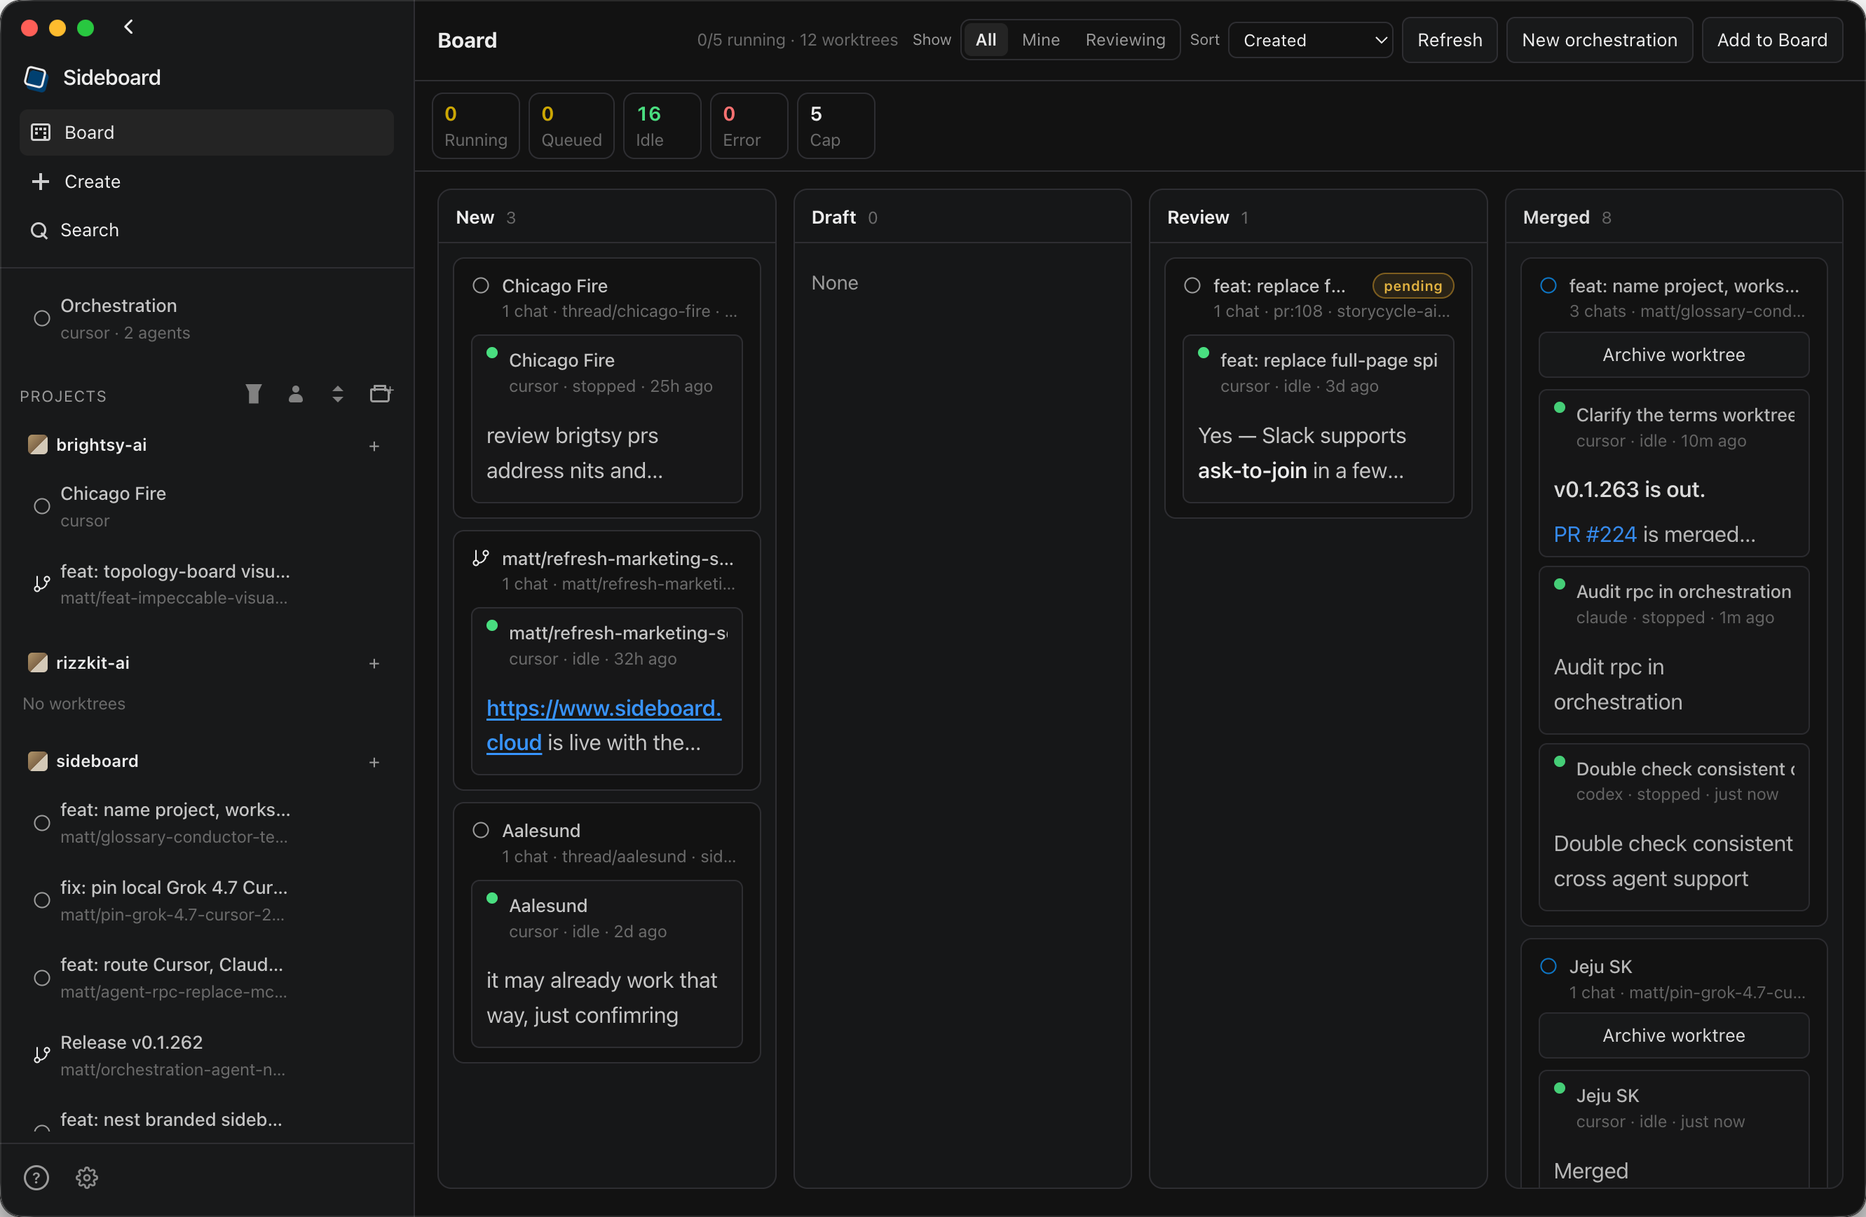
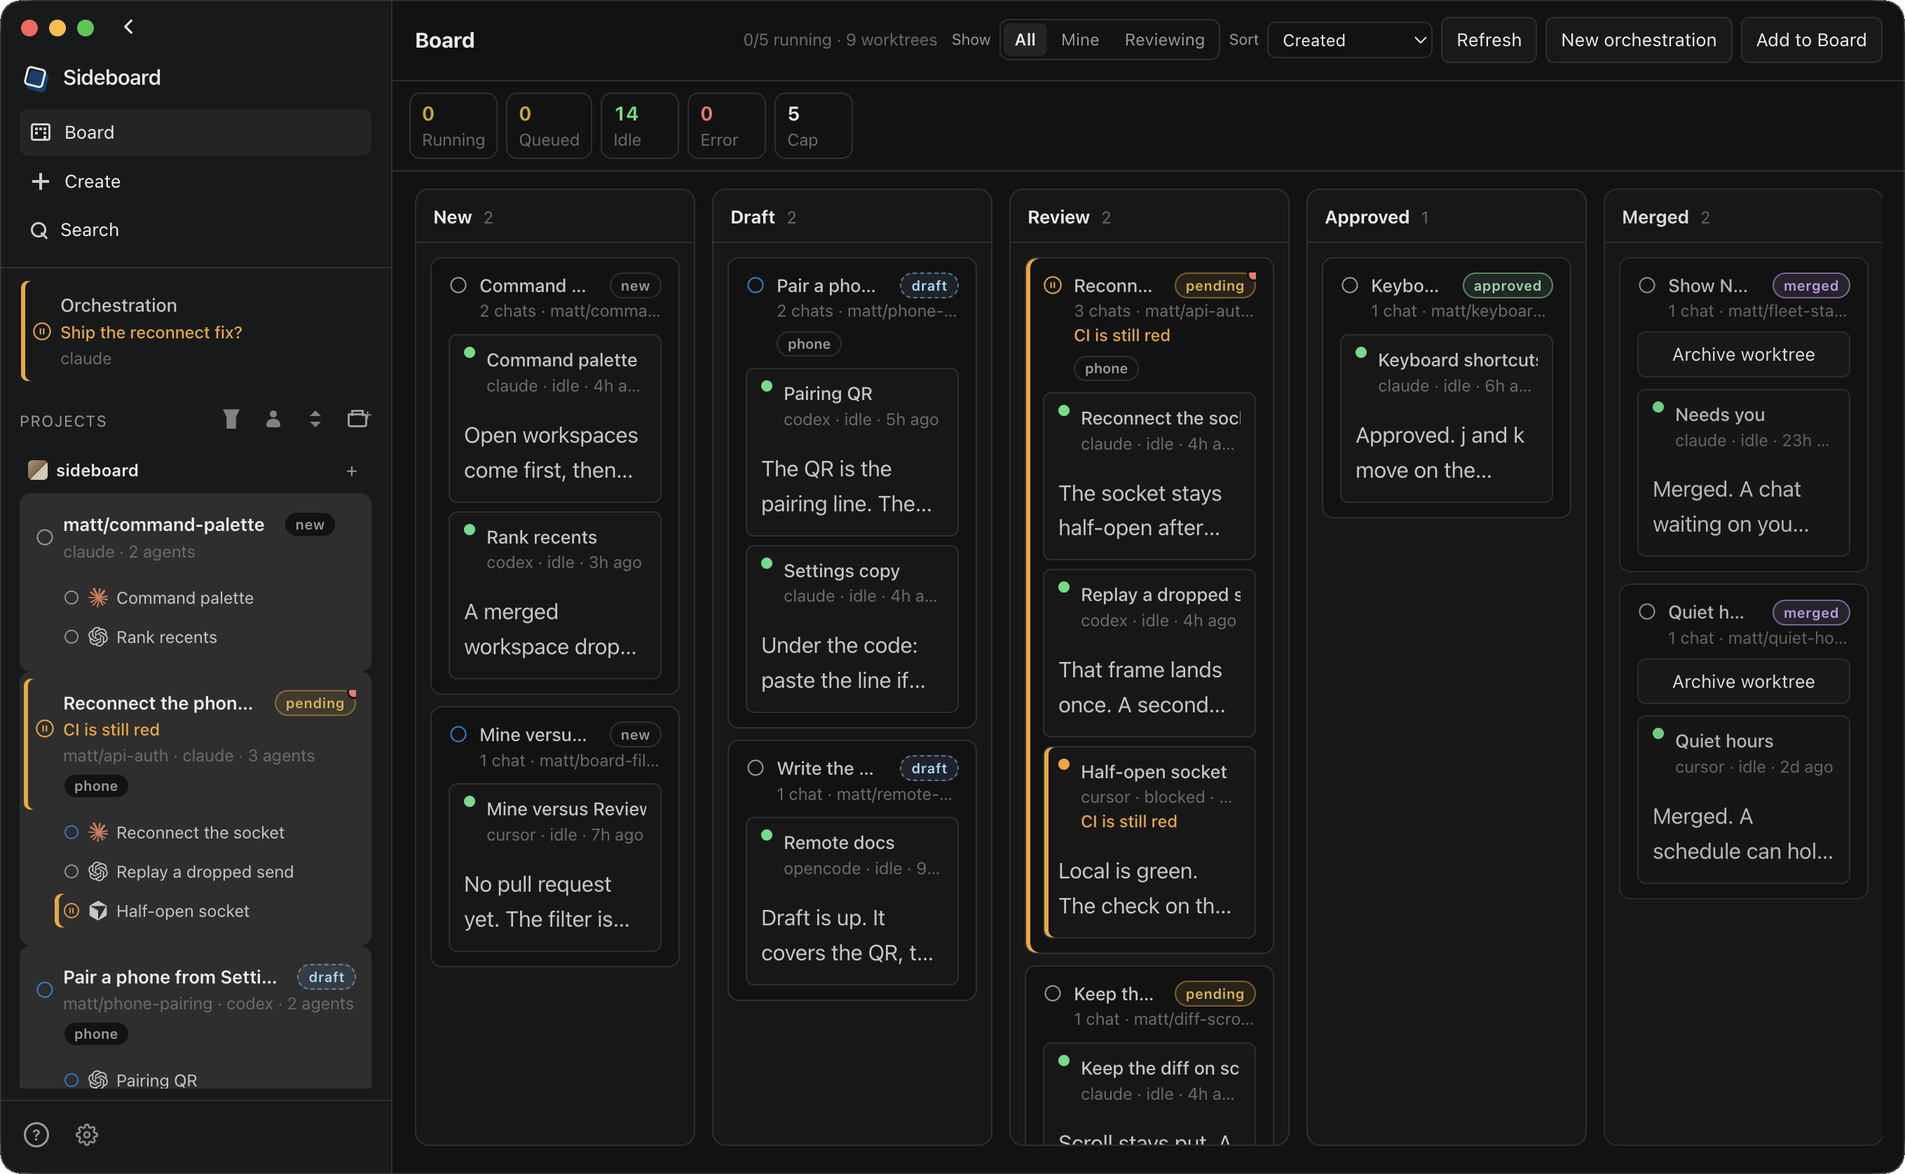
feat: show phone shots and crossfade the desktop with the board
The homepage leads with a rotating desktop and kanban, and the phone section uses simulator shots instead of a mock. A skill hides the Expo tools button only while those shots are captured.

diff --git a/site/index.html b/site/index.html
@@ -9,10 +9,10 @@
 <meta property="og:description" content="Parallel agents on this Mac. A board, an orchestrator, and a phone app, CLI, and MCP so you can reach them. Local-first, Apache-2.0.">
 <meta property="og:type" content="website">
 <meta property="og:url" content="https://www.sideboard.cloud/">
-<meta property="og:image" content="https://www.sideboard.cloud/board.png">
+<meta property="og:image" content="https://www.sideboard.cloud/board.png?v=3">
 <meta name="twitter:card" content="summary_large_image">
 <link rel="icon" href="/favicon.png">
-<link rel="stylesheet" href="/styles.css?v=20261004-2">
+<link rel="stylesheet" href="/styles.css?v=20261019-3">
 </head>
 <body>
 <header class="nav">
@@ -48,10 +48,43 @@
 
 <figure class="shot">
   <div class="shot-frame">
-    <img src="desktop.png?v=2" width="2706" height="1781" alt="Sideboard desktop — the worktree chat with the agent thread, structure column, and the git repo on the far right">
+    <div class="shot-swap">
+      <img class="shot-a" src="desktop.png?v=2" width="2706" height="1781" alt="Sideboard desktop — the worktree chat with the agent thread, structure column, and the git repo on the far right">
+      <img class="shot-b" src="board.png?v=3" width="2718" height="1676" alt="Sideboard board — workspaces across New, Draft, Review, Approved, and Merged, with more than one agent on a checkout">
+    </div>
   </div>
-  <figcaption class="shot-cap">One worktree chat: the agent thread in the middle, artifacts and schema tabs beside it, the git repo on the far right.</figcaption>
+  <figcaption class="shot-cap shot-swap-caps">
+    <span>One worktree chat: the agent thread in the middle, artifacts and schema tabs beside it, the git repo on the far right.</span>
+    <span>The fleet on one board. A workspace can hold several agents. Columns follow the work: New, Draft, Review, Approved, Merged.</span>
+  </figcaption>
 </figure>
+
+<section class="section phone-features wrap">
+  <h2>Your phone, to your Mac.</h2>
+  <p class="sub">Pair from Settings → Remote, then pick a desktop. The phone reaches the agents already running there: the thread, the diff, and the question when one needs you.</p>
+  <div class="phone-row">
+    <figure>
+      <img src="phone/desktops.png?v=7" width="1206" height="2622" alt="Sideboard on iPhone: Choose a desktop, with the paired Mac online and Pair another Mac">
+      <figcaption><strong>Desktops</strong> Pick the Mac you paired.</figcaption>
+    </figure>
+    <figure>
+      <img src="phone/fleet.png?v=7" width="1206" height="2622" alt="Phone needs you at the top, then sideboard agents: phone-pairing in draft, fleet-status merged, api-auth pending">
+      <figcaption><strong>Fleet</strong> Needs you sits at the top.</figcaption>
+    </figure>
+    <figure>
+      <img src="phone/chat.png?v=7" width="1206" height="2622" alt="api-auth chat with Claude, including the reconnect code in the thread">
+      <figcaption><strong>Chat</strong> Code in the thread.</figcaption>
+    </figure>
+    <figure>
+      <img src="phone/diff.png?v=7" width="1206" height="2622" alt="api-auth Changes tab showing the relay-link.ts diff">
+      <figcaption><strong>Changes</strong> The diff, file by file.</figcaption>
+    </figure>
+    <figure>
+      <img src="phone/ask.png?v=7" width="1206" height="2622" alt="Orchestration chat asking whether to ship the reconnect fix, with Patch and rerun CI and Leave it red">
+      <figcaption><strong>Needs you</strong> Answer without the laptop.</figcaption>
+    </figure>
+  </div>
+</section>
 
 <section class="agents wrap">
   <p>Works with the agents you already pay for</p>
@@ -78,10 +111,10 @@
       <div>
         <span class="kicker">Kanban</span>
         <h3>See the whole fleet at a glance</h3>
-        <p>Status, live output, and fan-out across every thread. One agent per worktree, all of them on one board instead of eight terminal tabs. Columns follow the work: New, Draft, Review, Merged.</p>
+        <p>Status, live output, and fan-out across every thread. More than one agent can share a workspace, and every workspace sits on one board. Columns follow the work: New, Draft, Review, Approved, Merged.</p>
       </div>
       <div class="shot-frame">
-        <img src="board.png" width="2662" height="1736" alt="Sideboard global board — every worktree as a card across New, Draft, Review, and Merged">
+        <img src="board.png?v=3" width="2718" height="1676" alt="Sideboard global board — workspaces across New, Draft, Review, Approved, and Merged, with more than one agent on a checkout">
       </div>
     </div>
   </div>
@@ -105,13 +138,12 @@
     <div class="panel-grid">
       <div>
         <span class="kicker">Remote</span>
-        <h3>Your phone, to this Mac</h3>
+        <h3>Your phone, to your Mac</h3>
         <p>Pair the Sideboard phone app from Settings → Remote. It lists every Mac you have paired and you choose which desktop to open. Quit the window and leave <code>sideboard serve</code> running if you still want the phone and schedules. Agents, repos, and VPN-only APIs stay on that machine. A chat that is waiting on you shows Needs you.</p>
       </div>
-      <div class="mock mock-phone" aria-hidden="true">
-        <div class="msg you">Work</div>
-        <div class="msg you">check the failing CI</div>
-        <div class="msg bot">CI is red on api-auth. Want me to look?</div>
+      <div class="phone-pair">
+        <img src="phone/chat.png?v=7" width="1206" height="2622" alt="Phone chat on api-auth, with the reconnect patch in the thread">
+        <img src="phone/ask.png?v=7" width="1206" height="2622" alt="Needs you on the phone: ship the reconnect fix, or leave the branch as it is">
       </div>
     </div>
   </div>

diff --git a/site/styles.css b/site/styles.css
@@ -222,6 +222,44 @@ h1, h2, h3, h4, p { text-wrap: pretty }
   color: var(--faint);
   margin: 14px 0 0;
 }
+.shot-swap {
+  position: relative;
+  aspect-ratio: 2706 / 1781;
+  animation: shot-frame 10s ease-in-out infinite;
+}
+.shot-swap img {
+  position: absolute;
+  inset: 0;
+  width: 100%;
+  height: 100%;
+  object-fit: contain;
+}
+.shot-a { animation: shot-show-a 10s ease-in-out infinite; }
+.shot-b { animation: shot-show-b 10s ease-in-out infinite; }
+.shot-swap-caps { display: grid; }
+.shot-swap-caps span { grid-area: 1 / 1; }
+.shot-swap-caps span:first-child { animation: shot-show-a 10s ease-in-out infinite; }
+.shot-swap-caps span:last-child { animation: shot-show-b 10s ease-in-out infinite; }
+@keyframes shot-frame {
+  0%, 40% { aspect-ratio: 2706 / 1781; }
+  50%, 90% { aspect-ratio: 2718 / 1676; }
+  100% { aspect-ratio: 2706 / 1781; }
+}
+@keyframes shot-show-a {
+  0%, 40% { opacity: 1; }
+  50%, 90% { opacity: 0; }
+  100% { opacity: 1; }
+}
+@keyframes shot-show-b {
+  0%, 40% { opacity: 0; }
+  50%, 90% { opacity: 1; }
+  100% { opacity: 0; }
+}
+@media (prefers-reduced-motion: reduce) {
+  .shot-swap, .shot-a, .shot-b, .shot-swap-caps span { animation: none; }
+  .shot-swap { aspect-ratio: 2706 / 1781; }
+  .shot-b, .shot-swap-caps span:last-child { opacity: 0; }
+}
 
 .agents {
   padding: 72px 0 8px;
@@ -512,6 +550,46 @@ h1, h2, h3, h4, p { text-wrap: pretty }
 }
 .phone-band a { color: #fff; font-weight: 700 }
 
+.phone-features { padding-top: 72px }
+.phone-features h2 { max-width: 16ch }
+.phone-row {
+  display: grid;
+  grid-template-columns: repeat(5, minmax(0, 1fr));
+  gap: 16px;
+  margin-top: 32px;
+}
+.phone-row figure { margin: 0 }
+.phone-row img {
+  border-radius: 22px;
+  border: 1px solid var(--line-strong);
+  box-shadow: 0 18px 40px rgba(0, 0, 0, 0.45);
+}
+.phone-row figcaption {
+  margin-top: 12px;
+  font-size: 13px;
+  line-height: 1.4;
+  color: var(--muted);
+}
+.phone-row figcaption strong {
+  display: block;
+  color: var(--text);
+  font-size: 14px;
+  letter-spacing: -0.02em;
+  margin-bottom: 2px;
+}
+.phone-pair {
+  display: flex;
+  justify-content: center;
+  align-items: flex-start;
+  gap: 16px;
+}
+.phone-pair img {
+  width: min(220px, 46%);
+  border-radius: 26px;
+  border: 1px solid var(--line-strong);
+  box-shadow: 0 18px 40px rgba(0, 0, 0, 0.45);
+}
+
 .faq { margin-top: 96px }
 .faq-list { margin-top: 28px; border-top: 1px solid var(--line) }
 .faq-list details {
@@ -635,6 +713,17 @@ article th { color: var(--text); background: var(--card) }
     grid-template-columns: 1fr;
   }
   .phone-band { padding: 36px 24px }
+  .phone-row {
+    display: flex;
+    overflow-x: auto;
+    scroll-snap-type: x mandatory;
+    gap: 14px;
+    padding-bottom: 8px;
+  }
+  .phone-row figure {
+    flex: 0 0 68%;
+    scroll-snap-align: center;
+  }
   .nav-inner { gap: 12px 16px }
   .nav-links { gap: 14px }
   .origin-grid { overflow-x: auto }

diff --git a/AGENTS.md b/AGENTS.md
@@ -15,7 +15,7 @@ Read [docs/system/README.md](docs/system/README.md) before changing code. Then o
 
 When you make an architecture decision (where something lives, how a host is split, a deploy path, a safety rail), write it into `docs/system/` in the same change — not only in chat or a code comment.
 
-Recurring multi-item work (migration, port, batch fix, fan-out): follow [`.claude/skills/graph-engineering/SKILL.md`](.claude/skills/graph-engineering/SKILL.md) (`/graph-engineering`). New Sideboard host methods for agents: [`.claude/skills/agent-rpc/SKILL.md`](.claude/skills/agent-rpc/SKILL.md) (`/agent-rpc`) — WebSocket JSON-RPC owned by desktop, not MCP stdio. Desktop / npm version cuts: [`.claude/skills/release/SKILL.md`](.claude/skills/release/SKILL.md) (`/release`). After merge-from-main or a hung `pnpm install` across worktrees: [`.claude/skills/worktree-install/SKILL.md`](.claude/skills/worktree-install/SKILL.md) (`/worktree-install`) — use the worktree-local store, never a shared `~/.pnpm-store`. Recently merged PRs with un-addressed Cursor Bugbot / cursorbot review comments: [`.claude/skills/bugbot-follow-ups/SKILL.md`](.claude/skills/bugbot-follow-ups/SKILL.md) (`/bugbot-follow-ups`) — collect unresolved threads, triage against `origin/main`, one follow-up PR. Any long worktree job (pack, test, deploy): `/long-running` (Sideboard product skill for every worktree; this repo also has [`.claude/skills/long-running/SKILL.md`](.claude/skills/long-running/SKILL.md) for Mac-release notes) — `detached-job.cjs start` then loop `wait` and `present_artifact` `type=log` with `delta` (do not ask the human to poll). `stop_job` if it hangs or is doing the wrong thing. Connector CLIs: write output to `.context/cli/` (not `.context/attachments/`) and read a slice — never dump raw `--json` / `--expand` into a tool result. New process guides go in `.claude/skills/<name>/SKILL.md`, not `.sideboard/skills`.
+Recurring multi-item work (migration, port, batch fix, fan-out): follow [`.claude/skills/graph-engineering/SKILL.md`](.claude/skills/graph-engineering/SKILL.md) (`/graph-engineering`). New Sideboard host methods for agents: [`.claude/skills/agent-rpc/SKILL.md`](.claude/skills/agent-rpc/SKILL.md) (`/agent-rpc`) — WebSocket JSON-RPC owned by desktop, not MCP stdio. Desktop / npm version cuts: [`.claude/skills/release/SKILL.md`](.claude/skills/release/SKILL.md) (`/release`). After merge-from-main or a hung `pnpm install` across worktrees: [`.claude/skills/worktree-install/SKILL.md`](.claude/skills/worktree-install/SKILL.md) (`/worktree-install`) — use the worktree-local store, never a shared `~/.pnpm-store`. Recently merged PRs with un-addressed Cursor Bugbot / cursorbot review comments: [`.claude/skills/bugbot-follow-ups/SKILL.md`](.claude/skills/bugbot-follow-ups/SKILL.md) (`/bugbot-follow-ups`) — collect unresolved threads, triage against `origin/main`, one follow-up PR. Any long worktree job (pack, test, deploy): `/long-running` (Sideboard product skill for every worktree; this repo also has [`.claude/skills/long-running/SKILL.md`](.claude/skills/long-running/SKILL.md) for Mac-release notes) — `detached-job.cjs start` then loop `wait` and `present_artifact` `type=log` with `delta` (do not ask the human to poll). `stop_job` if it hangs or is doing the wrong thing. A server that should stay up (a local site preview) is not a detached job — stop it instead of waiting; it never finishes. Connector CLIs: write output to `.context/cli/` (not `.context/attachments/`) and read a slice — never dump raw `--json` / `--expand` into a tool result. Phone or marketing screenshots from the simulator: [`.claude/skills/phone-screenshots/SKILL.md`](.claude/skills/phone-screenshots/SKILL.md) (`/phone-screenshots`) — hide Expo Go’s tools button only for the capture, then turn it back on. Do not patch the app. New process guides go in `.claude/skills/<name>/SKILL.md`, not `.sideboard/skills`.
 
 **Reading run script logs:** Dev terminal and other run script output are persisted to `~/.sideboard/threads/wt-{hash}-run-{script}.run.log.json`. Agents can call the MCP tool `get_run_log` (ref omitted on worktree turns) to read the tail of any script's output. CLI: `.context/cli/read-dev-log.sh [worktree] [script-name]` for manual access.
 

diff --git a/CLAUDE.md b/CLAUDE.md
@@ -15,7 +15,7 @@ Read [docs/system/README.md](docs/system/README.md) before changing code. Then o
 
 When you make an architecture decision (where something lives, how a host is split, a deploy path, a safety rail), write it into `docs/system/` in the same change — not only in chat or a code comment.
 
-Recurring multi-item work (migration, port, batch fix, fan-out): follow [`.claude/skills/graph-engineering/SKILL.md`](.claude/skills/graph-engineering/SKILL.md) (`/graph-engineering`). New Sideboard host methods for agents: [`.claude/skills/agent-rpc/SKILL.md`](.claude/skills/agent-rpc/SKILL.md) (`/agent-rpc`) — WebSocket JSON-RPC owned by desktop, not MCP stdio. Desktop / npm version cuts: [`.claude/skills/release/SKILL.md`](.claude/skills/release/SKILL.md) (`/release`). After merge-from-main or a hung `pnpm install` across worktrees: [`.claude/skills/worktree-install/SKILL.md`](.claude/skills/worktree-install/SKILL.md) (`/worktree-install`) — use the worktree-local store, never a shared `~/.pnpm-store`. Recently merged PRs with un-addressed Cursor Bugbot / cursorbot review comments: [`.claude/skills/bugbot-follow-ups/SKILL.md`](.claude/skills/bugbot-follow-ups/SKILL.md) (`/bugbot-follow-ups`) — collect unresolved threads, triage against `origin/main`, one follow-up PR. Any long worktree job (pack, test, deploy): `/long-running` (Sideboard product skill for every worktree; this repo also has [`.claude/skills/long-running/SKILL.md`](.claude/skills/long-running/SKILL.md) for Mac-release notes) — `detached-job.cjs start` then loop `wait` and `present_artifact` `type=log` with `delta` (do not ask the human to poll). `stop_job` if it hangs or is doing the wrong thing. Connector CLIs: write output to `.context/cli/` (not `.context/attachments/`) and read a slice — never dump raw `--json` / `--expand` into a tool result. New process guides go in `.claude/skills/<name>/SKILL.md`, not `.sideboard/skills`.
+Recurring multi-item work (migration, port, batch fix, fan-out): follow [`.claude/skills/graph-engineering/SKILL.md`](.claude/skills/graph-engineering/SKILL.md) (`/graph-engineering`). New Sideboard host methods for agents: [`.claude/skills/agent-rpc/SKILL.md`](.claude/skills/agent-rpc/SKILL.md) (`/agent-rpc`) — WebSocket JSON-RPC owned by desktop, not MCP stdio. Desktop / npm version cuts: [`.claude/skills/release/SKILL.md`](.claude/skills/release/SKILL.md) (`/release`). After merge-from-main or a hung `pnpm install` across worktrees: [`.claude/skills/worktree-install/SKILL.md`](.claude/skills/worktree-install/SKILL.md) (`/worktree-install`) — use the worktree-local store, never a shared `~/.pnpm-store`. Recently merged PRs with un-addressed Cursor Bugbot / cursorbot review comments: [`.claude/skills/bugbot-follow-ups/SKILL.md`](.claude/skills/bugbot-follow-ups/SKILL.md) (`/bugbot-follow-ups`) — collect unresolved threads, triage against `origin/main`, one follow-up PR. Any long worktree job (pack, test, deploy): `/long-running` (Sideboard product skill for every worktree; this repo also has [`.claude/skills/long-running/SKILL.md`](.claude/skills/long-running/SKILL.md) for Mac-release notes) — `detached-job.cjs start` then loop `wait` and `present_artifact` `type=log` with `delta` (do not ask the human to poll). `stop_job` if it hangs or is doing the wrong thing. A server that should stay up (a local site preview) is not a detached job — stop it instead of waiting; it never finishes. Connector CLIs: write output to `.context/cli/` (not `.context/attachments/`) and read a slice — never dump raw `--json` / `--expand` into a tool result. Phone or marketing screenshots from the simulator: [`.claude/skills/phone-screenshots/SKILL.md`](.claude/skills/phone-screenshots/SKILL.md) (`/phone-screenshots`) — hide Expo Go’s tools button only for the capture, then turn it back on. Do not patch the app. New process guides go in `.claude/skills/<name>/SKILL.md`, not `.sideboard/skills`.
 
 **Reading run script logs:** Dev terminal and other run script output are persisted to `~/.sideboard/threads/wt-{hash}-run-{script}.run.log.json`. Agents can call the MCP tool `get_run_log` (ref omitted on worktree turns) to read the tail of any script's output. CLI: `.context/cli/read-dev-log.sh [worktree] [script-name]` for manual access.
 

diff --git a/.claude/skills/long-running/SKILL.md b/.claude/skills/long-running/SKILL.md
@@ -4,7 +4,8 @@ description: >-
   Detach and wait on any long worktree job (pack, notarize, full test, deploy)
   so a new chat turn does not SIGTERM it, and the human does not have to poll.
   Use when a command may run more than ~30s, or the user mentions wait / status
-  / aborted builds.
+  / aborted builds. Do not use for a server that should stay up (a local site
+  preview). Stop that job instead of waiting.
 ---
 
 # Long-running jobs
@@ -14,6 +15,8 @@ Sideboard ships this method to **every** worktree agent (`/long-running` is a pr
 A Sideboard or Cursor **worktree turn** SIGTERMs the agent shell (and its process group) when the user sends another message or the turn is interrupted. `block_until_ms: 0` is not enough — the child stays in that group.
 
 Do **not** ask the human to check back. Detach, then **wait** in 45s slices (same idea as MCP `wait_for_turn`) until `stillRunning` is false. Do not end the turn after starting a job — a native CLI Task or bash notify does **not** resume a Sideboard chat (Claude, Cursor, Codex, OpenCode).
+
+A process that is supposed to stay up is not this skill. Do not `start` a static file server, preview server, or anything else that never exits (`python -m http.server`, a dev server). `stillRunning` stays true, and the orchestrator will not let the turn end. To show the local marketing page, open `site/index.html` (side column or a browser). If a stay-up server is already a detached job, `stop` that id and continue. Do not loop `wait` on it.
 
 ## Tool
 

diff --git a/.claude/skills/phone-screenshots/SKILL.md b/.claude/skills/phone-screenshots/SKILL.md
@@ -1,0 +1,41 @@
+---
+name: phone-screenshots
+description: >-
+  Capture Sideboard phone or marketing screenshots from the iOS simulator
+  without the Expo tools button. Use when hiding or restoring that button,
+  retaking site/phone images, or the Expo overlay is in the way.
+---
+
+# Phone and marketing screenshots
+
+The Expo tools button is Expo Go, not Sideboard. This repo does not hide it.
+Do not patch `apps/mobile`, `app.json`, or Metro to remove it, and do not
+leave it hidden after the shots are taken.
+
+Expo Go stores the switch on the booted simulator:
+
+`host.exp.Exponent` → `EXDevMenuShowFloatingActionButton`
+
+`true` shows the button (normal use). `false` hides it for a capture.
+
+## Toggle
+
+From the repo root. The script quits Expo Go first so the running app does
+not write the old value back on exit.
+
+```sh
+.claude/skills/phone-screenshots/expo-tools-button.sh hide   # screenshots only
+.claude/skills/phone-screenshots/expo-tools-button.sh show   # put the button back
+```
+
+Then reopen the project. Take the URL from this worktree's mobile dev script
+(`list_run_scripts` / the Dev button). Do not guess a port.
+
+```sh
+xcrun simctl openurl booted "exp://127.0.0.1:<port>"
+```
+
+## What to save
+
+- Phone shots: `site/phone/*.png`, 1206×2622, from the simulator. Not an HTML mock.
+- Marketing kanban: `site/board.png`. Crop the window only. Do not resize the pixels.
